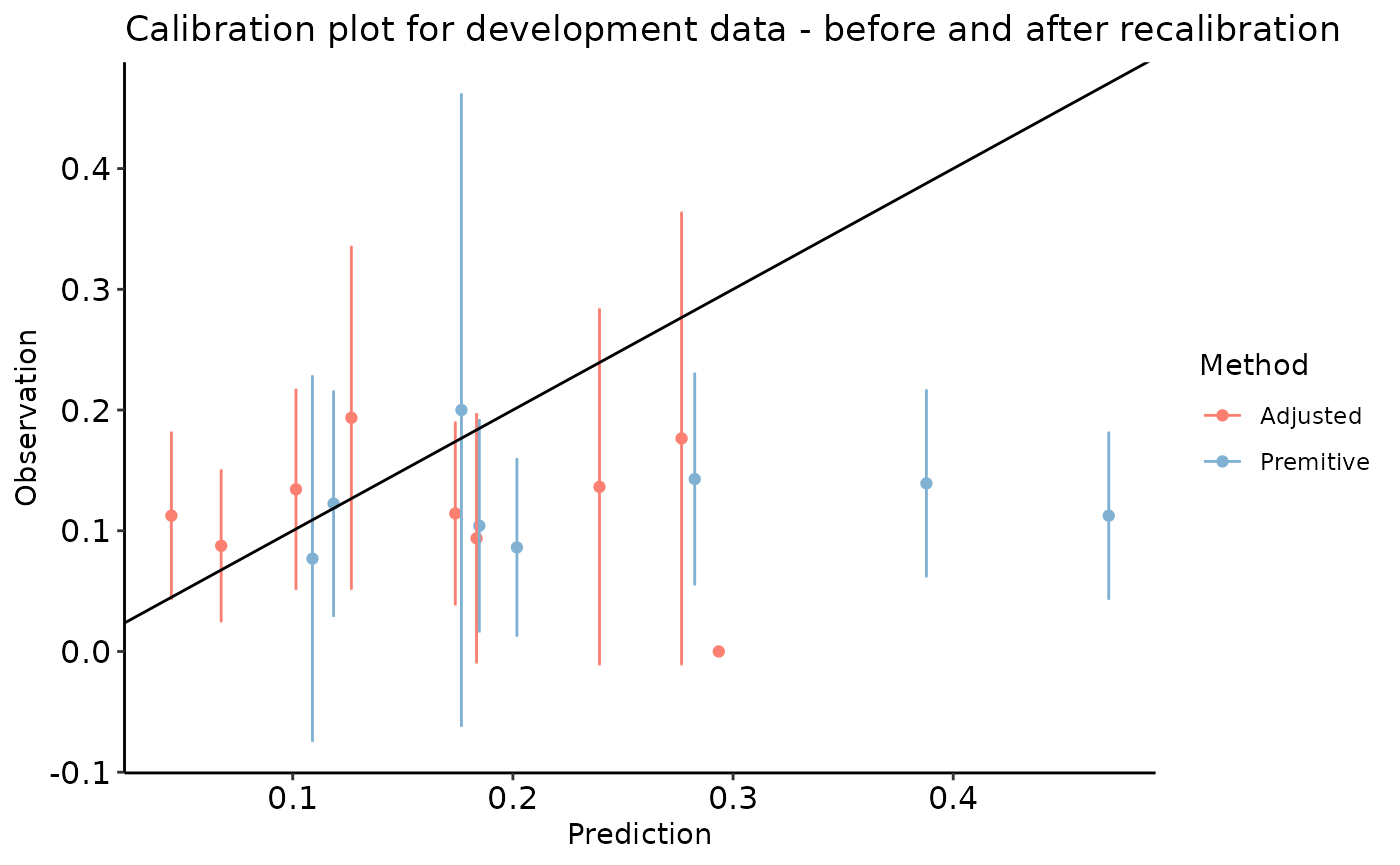
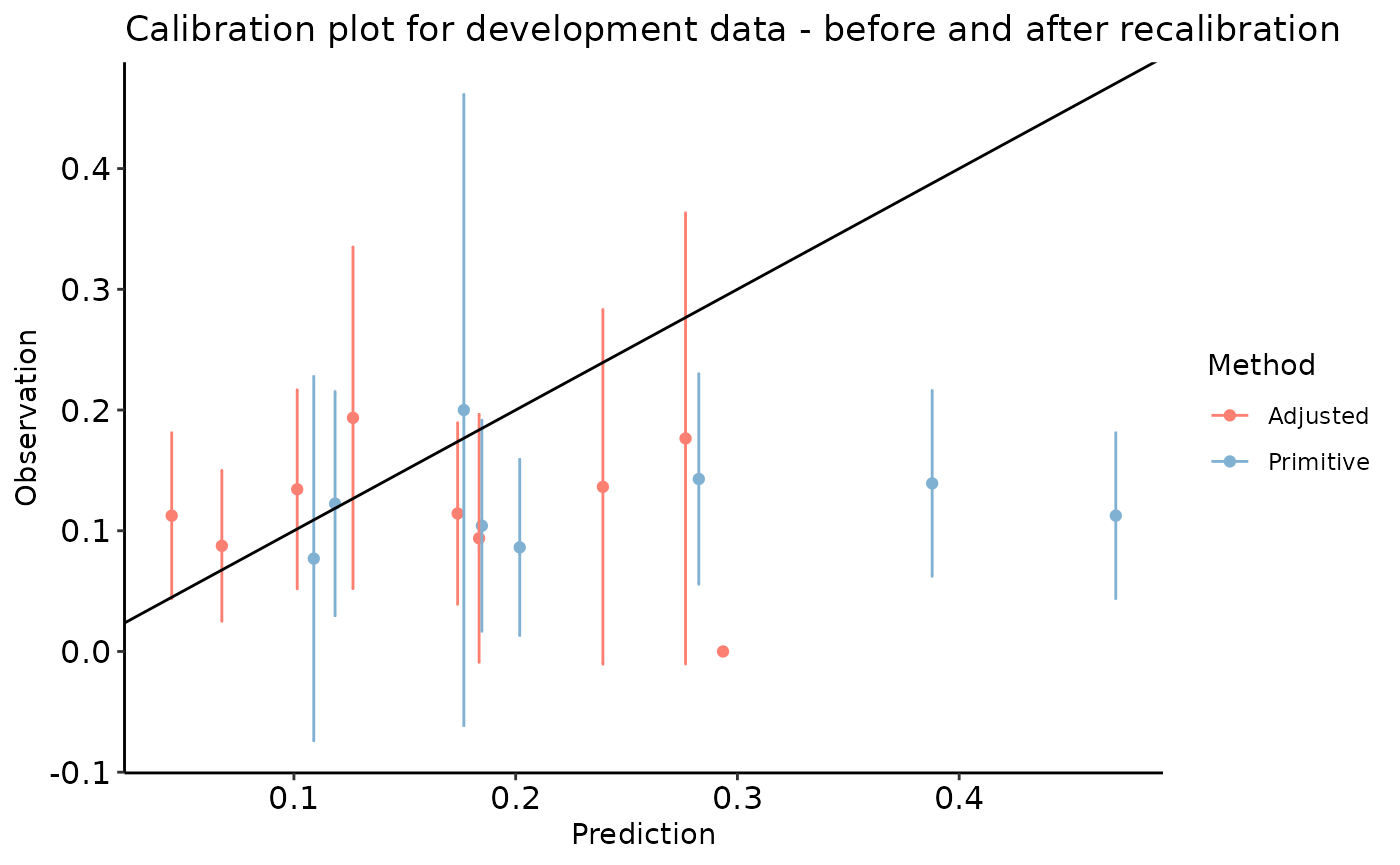
Built site for predtools: 0.0.3@06824f0

diff --git a/articles/interceptAdj.html b/articles/interceptAdj.html
@@ -289,7 +289,7 @@
 <span></span>
 <span><span class="va">val_data</span><span class="op">$</span><span class="va">id</span> <span class="op">&lt;-</span> <span class="fu"><a href="https://rdrr.io/r/base/c.html" class="external-link">c</a></span><span class="op">(</span><span class="fl">1</span> <span class="op">:</span> <span class="fu"><a href="https://rdrr.io/r/base/nrow.html" class="external-link">nrow</a></span><span class="op">(</span><span class="va">val_data</span><span class="op">)</span><span class="op">)</span></span>
 <span><span class="va">val_data_long</span> <span class="op">&lt;-</span> <span class="fu"><a href="https://rdrr.io/r/stats/reshape.html" class="external-link">reshape</a></span><span class="op">(</span>data <span class="op">=</span> <span class="va">val_data</span>, direction <span class="op">=</span> <span class="st">"long"</span>, varying <span class="op">=</span> <span class="fu"><a href="https://rdrr.io/r/base/c.html" class="external-link">c</a></span><span class="op">(</span><span class="st">"pred"</span>, <span class="st">"pred_adj"</span><span class="op">)</span>, v.name <span class="op">=</span> <span class="st">"preds"</span>,</span>
-<span>                         idvar <span class="op">=</span> <span class="st">"id"</span>, timevar <span class="op">=</span> <span class="st">"Method"</span>, times <span class="op">=</span> <span class="fu"><a href="https://rdrr.io/r/base/c.html" class="external-link">c</a></span><span class="op">(</span><span class="st">"Premitive"</span>, <span class="st">"Adjusted"</span><span class="op">)</span><span class="op">)</span></span>
+<span>                         idvar <span class="op">=</span> <span class="st">"id"</span>, timevar <span class="op">=</span> <span class="st">"Method"</span>, times <span class="op">=</span> <span class="fu"><a href="https://rdrr.io/r/base/c.html" class="external-link">c</a></span><span class="op">(</span><span class="st">"Primitive"</span>, <span class="st">"Adjusted"</span><span class="op">)</span><span class="op">)</span></span>
 <span></span>
 <span><span class="fu"><a href="../reference/calibration_plot.html">calibration_plot</a></span><span class="op">(</span>data <span class="op">=</span> <span class="va">val_data</span>, obs <span class="op">=</span> <span class="st">"y_alt"</span>, pred <span class="op">=</span> <span class="st">"pred_adj"</span>,</span>
 <span>                 title <span class="op">=</span> <span class="st">"Calibration plot for development data - after recalibration"</span><span class="op">)</span></span>

diff --git a/articles/mROC.html b/articles/mROC.html
@@ -277,9 +277,9 @@
 <code class="sourceCode R"><span><span class="va">res</span><span class="op">&lt;-</span><span class="fu"><a href="../reference/mROC_inference.html">mROC_inference</a></span><span class="op">(</span><span class="va">val_data</span><span class="op">[</span>,<span class="st">'y'</span><span class="op">]</span>,<span class="va">pred</span><span class="op">)</span></span>
 <span></span>
 <span><span class="va">res</span></span>
-<span><span class="co">#&gt; Mean calibration statistic (A):0.00835868(Obs&gt;Pred) (p:0.72552)</span></span>
-<span><span class="co">#&gt; mROC/ROC equality statsitic (B):0.05910898 (p:0.04719)</span></span>
-<span><span class="co">#&gt; Unified statistic:6.786845 (df:4.015587,p:0.148836)</span></span></code></pre></div>
+<span><span class="co">#&gt; Mean calibration statistic (A):0.00835868(Obs&gt;Pred) (p:0.72427)</span></span>
+<span><span class="co">#&gt; mROC/ROC equality statsitic (B):0.05910898 (p:0.04762)</span></span>
+<span><span class="co">#&gt; Unified statistic:6.7869 (df:4.02448,p:0.1495457)</span></span></code></pre></div>
 </div>
 </div>
   </div>
